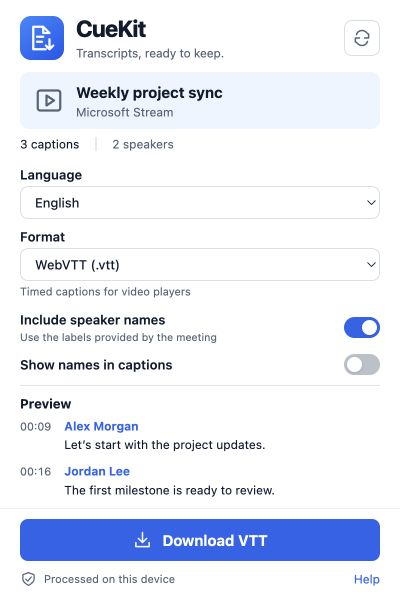
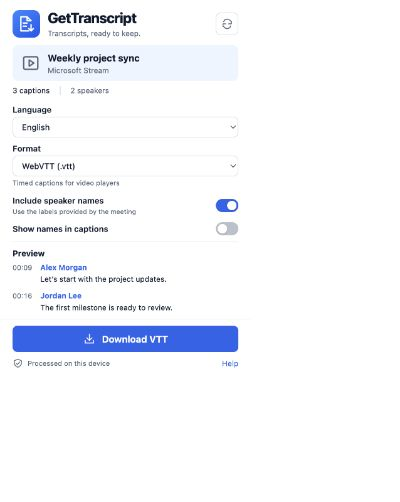
Name the extension GetTranscript and prepare public release

diff --git a/public/help.html b/public/help.html
@@ -3,16 +3,18 @@
   <head>
     <meta charset="utf-8" />
     <meta name="viewport" content="width=device-width,initial-scale=1" />
-    <title>CueKit Help</title>
+    <title>GetTranscript Help</title>
     <link rel="stylesheet" href="help.css" />
   </head>
   <body>
     <main>
-      <h1>CueKit</h1>
+      <h1>GetTranscript</h1>
       <p class="lead">Keep the transcript. Keep the speaker names.</p>
       <h2>Export in three steps</h2>
       <ol>
-        <li>Open a video page and select CueKit in your browser toolbar.</li>
+        <li>
+          Open a video page and select GetTranscript in your browser toolbar.
+        </li>
         <li>
           Choose a language and format. Available speaker labels are matched
           automatically.
@@ -54,16 +56,16 @@
         supported.
       </p>
       <p>
-        If no captions appear, enable them in the player and refresh CueKit.
-        Open embedded videos on their original page. CueKit does not transcribe
-        audio or infer who is speaking.
+        If no captions appear, enable them in the player and refresh
+        GetTranscript. Open embedded videos on their original page.
+        GetTranscript does not transcribe audio or infer who is speaking.
       </p>
       <h2>Speaker names</h2>
       <p>
         Names come from existing caption tags or the meeting’s transcript
-        labels. CueKit matches complete utterance text and timestamps. It leaves
-        unmatched captions unnamed. It does not correct the original service’s
-        attribution errors.
+        labels. GetTranscript matches complete utterance text and timestamps. It
+        leaves unmatched captions unnamed. It does not correct the original
+        service’s attribution errors.
       </p>
       <h2>Your privacy</h2>
       <p>
@@ -73,7 +75,7 @@
         account registration or AI services.
       </p>
       <p>
-        Temporary active-tab access is granted when you open CueKit. The
+        Temporary active-tab access is granted when you open GetTranscript. The
         extension may load caption resources referenced by that page, briefly
         reveal captions or scroll the transcript, and then restore those
         controls. Existing sign-in, server permissions and content availability
@@ -86,7 +88,22 @@
         <strong>storage:</strong> remember export preferences. No persistent
         website access, cookie access, browsing history or debugger permission.
       </p>
-      <p class="version">CueKit 1.0.0 · Local processing</p>
+      <p>
+        <a
+          href="https://github.com/RobinMJD/GetTranscript/issues"
+          target="_blank"
+          rel="noopener noreferrer"
+          >Support</a
+        >
+        ·
+        <a
+          href="https://github.com/RobinMJD/GetTranscript/blob/main/PRIVACY.md"
+          target="_blank"
+          rel="noopener noreferrer"
+          >Privacy policy</a
+        >
+      </p>
+      <p class="version">GetTranscript 1.0.0 · Local processing</p>
     </main>
   </body>
 </html>

diff --git a/tests/browser/extension.spec.ts b/tests/browser/extension.spec.ts
@@ -23,7 +23,7 @@ const fixtureUrl =
 const html = `<!doctype html><html><head><title>Weekly project sync</title></head><body><video controls><track default kind="subtitles" label="English" srclang="en" src="/captions.vtt"></video></body></html>`;
 
 test.beforeAll(async () => {
-  folder = await mkdtemp(path.join(tmpdir(), "cuekit-browser-"));
+  folder = await mkdtemp(path.join(tmpdir(), "gettranscript-browser-"));
   const ext = path.join(folder, "extension");
   await cp("dist", ext, { recursive: true });
   const { publicKey } = generateKeyPairSync("rsa", { modulusLength: 2048 });
@@ -87,7 +87,7 @@ test.beforeAll(async () => {
     entryPoints: ["src/extractor/collect.ts"],
     bundle: true,
     format: "iife",
-    globalName: "CueKitExtractor",
+    globalName: "GetTranscriptExtractor",
     write: false,
     target: "chrome120",
   });
@@ -215,7 +215,7 @@ test("virtualized Stream transcript yields complete speaker rows and restores sc
   });
   const result = await video.evaluate(async (code) => {
     return await (0, eval)(
-      `(()=>{${code};return CueKitExtractor.collectPage({speakers:true,prepare:false});})()`,
+      `(()=>{${code};return GetTranscriptExtractor.collectPage({speakers:true,prepare:false});})()`,
     );
   }, collector);
   expect(result.rows).toHaveLength(100);
@@ -318,7 +318,7 @@ test("cold Stream player loads captions and restores the caption menu", async ()
   const result = await video.evaluate(
     async (code) =>
       await (0, eval)(
-        `(()=>{${code};return CueKitExtractor.collectPage({speakers:false,prepare:true});})()`,
+        `(()=>{${code};return GetTranscriptExtractor.collectPage({speakers:false,prepare:true});})()`,
       ),
     collector,
   );

diff --git a/scripts/store-preview.html b/scripts/store-preview.html
@@ -2,7 +2,7 @@
 <html lang="en">
   <head>
     <meta charset="utf-8" />
-    <title>CueKit — Store artwork</title>
+    <title>GetTranscript — Store artwork</title>
     <style>
       * {
         box-sizing: border-box;
@@ -78,7 +78,9 @@
   <body>
     <main>
       <article>
-        <div class="brand"><img src="/icons/icon128.png" alt="" />CueKit</div>
+        <div class="brand">
+          <img src="/icons/icon128.png" alt="" />GetTranscript
+        </div>
         <h1>Keep the transcript.<br />Keep the speaker names.</h1>
         <p>
           Export available captions from Microsoft Stream and supported video
@@ -91,7 +93,7 @@
       </article>
       <iframe
         src="/?demo"
-        title="CueKit export popup with fictional meeting content"
+        title="GetTranscript export popup with fictional meeting content"
       ></iframe>
     </main>
   </body>

diff --git a/src/popup/App.tsx b/src/popup/App.tsx
@@ -131,7 +131,7 @@ export function App() {
           <Icon name="file" size={30} />
         </div>
         <div className="brand">
-          <h1>CueKit</h1>
+          <h1>GetTranscript</h1>
           <p>Transcripts, ready to keep.</p>
         </div>
         <button
@@ -183,7 +183,9 @@ export function App() {
               <section className="empty">
                 <Icon name="file" size={34} />
                 <h2>No captions found yet</h2>
-                <p>Turn captions on in the video, then refresh CueKit.</p>
+                <p>
+                  Turn captions on in the video, then refresh GetTranscript.
+                </p>
                 <p className="subtle">
                   Embedded video? Open its original page first.
                 </p>

diff --git a/index.html b/index.html
@@ -1,2 +1,12 @@
 <!doctype html>
-<html lang="en"><head><meta charset="UTF-8"><meta name="viewport" content="width=device-width,initial-scale=1"><title>CueKit — Transcript Exporter</title></head><body><div id="root"></div><script type="module" src="/src/popup/main.tsx"></script></body></html>
+<html lang="en">
+  <head>
+    <meta charset="UTF-8" />
+    <meta name="viewport" content="width=device-width,initial-scale=1" />
+    <title>GetTranscript — Video Transcript Exporter</title>
+  </head>
+  <body>
+    <div id="root"></div>
+    <script type="module" src="/src/popup/main.tsx"></script>
+  </body>
+</html>

diff --git a/src/extractor/collect.ts b/src/extractor/collect.ts
@@ -307,7 +307,7 @@ export async function collectPage(options: {
   }
   if (!tracks.length)
     warnings.push(
-      "No readable captions found. Turn captions on in the player, then refresh CueKit. For an embedded video, open its original page.",
+      "No readable captions found. Turn captions on in the player, then refresh GetTranscript. For an embedded video, open its original page.",
     );
   return {
     title,

diff --git a/README.md b/README.md
@@ -1,12 +1,12 @@
-# CueKit
+# GetTranscript
 
 **Keep the transcript. Keep the speaker names.**
 
-CueKit turns the captions already available on a video page into a file you can keep, edit, search or reuse. Open the extension, choose your format, and download.
+GetTranscript turns the captions already available on a video page into a file you can keep, edit, search or reuse. Open the extension, choose your format, and download.
 
 Current version: **v1.0.0** · Chrome and Microsoft Edge · Manifest V3
 
-![CueKit export popup](docs/images/popup.png)
+![GetTranscript export popup](docs/images/popup.png)
 
 ## A useful transcript in one place
 
@@ -19,23 +19,23 @@ Current version: **v1.0.0** · Chrome and Microsoft Edge · Manifest V3
 
 ## Install locally
 
-Store listings have not been published yet. Do not install a similarly named extension assuming it is this project.
+Download the package from [GitHub Releases](https://github.com/RobinMJD/GetTranscript/releases). Chrome and Edge Store listings are being prepared.
 
-1. Extract `cuekit-v1.0.0-chromium-stores.zip` into a permanent folder.
+1. Extract `gettranscript-v1.0.0-chromium-stores.zip` into a permanent folder.
 2. Open `chrome://extensions` or `edge://extensions` and enable **Developer mode**.
 3. Select **Load unpacked** and choose that extracted folder. Its root contains `manifest.json`.
-4. Pin CueKit to the toolbar.
+4. Pin GetTranscript to the toolbar.
 
 For source builds, load `dist/` after running the commands below.
 
 ## Use it
 
-1. Open the original video page and select CueKit in the toolbar.
+1. Open the original video page and select GetTranscript in the toolbar.
 2. Keep the popup open while it reads the captions and matches speaker names.
 3. Choose the language, format and speaker options.
 4. Select **Download**. The file is saved through your browser’s download manager.
 
-If no captions are found, turn captions on in the player and refresh CueKit. For a video embedded from another origin, open the video’s original page.
+If no captions are found, turn captions on in the player and refresh GetTranscript. For a video embedded from another origin, open the video’s original page.
 
 | Format   | Best for                                     | Speaker names                                |
 | -------- | -------------------------------------------- | -------------------------------------------- |
@@ -51,7 +51,7 @@ If no captions are found, turn captions on in the player and refresh CueKit. For
 
 **Other HTML5 video and audio players:** readable WebVTT resources or native text tracks. Same-origin frames are inspected. Cross-origin embedded players should be opened separately. Proprietary players, closed shadow roots and sites that do not expose captions are not covered.
 
-CueKit does not transcribe audio, identify voices, translate text or correct the meeting service’s speaker assignments. Names are added only after a unique text-and-time match. Unmatched captions remain unnamed and partial coverage is reported. A live player may expose only a rolling window of captions rather than the complete event.
+GetTranscript does not transcribe audio, identify voices, translate text or correct the meeting service’s speaker assignments. Names are added only after a unique text-and-time match. Unmatched captions remain unnamed and partial coverage is reported. A live player may expose only a rolling window of captions rather than the complete event.
 
 ## Local processing
 
@@ -87,7 +87,7 @@ One deterministic Chromium ZIP is used unchanged for GitHub Releases, Chrome Web
 
 The release workflow requires an exact `vX.Y.Z` tag on `main`, verifies the version, runs unit and loaded-browser tests, audits dependencies and packages once. Publication jobs consume that verified artifact. Store jobs remain disabled until their listing identities and protected environment credentials have been configured. Manual reruns can select GitHub, Chrome or Edge independently.
 
-See [Publishing](docs/PUBLISHING.md), [Store listing](docs/STORE_LISTING.md) and [Architecture](docs/ARCHITECTURE.md). GitHub Releases should be the canonical published changelog once the repository is created. No Store links or installation badges are shown until their actual listings exist.
+See [Publishing](docs/PUBLISHING.md), [Store listing](docs/STORE_LISTING.md) and [Architecture](docs/ARCHITECTURE.md). [GitHub Releases](https://github.com/RobinMJD/GetTranscript/releases) is the canonical published changelog. No Store links or installation badges are shown until their actual listings exist.
 
 ## Project layout
 

diff --git a/PRIVACY.md b/PRIVACY.md
@@ -1,22 +1,22 @@
-# CueKit privacy policy
+# GetTranscript privacy policy
 
 Effective September 19, 2026. Version 1.0.0.
 
-CueKit runs locally in your browser. It has no developer-operated service, analytics, advertising or account system. The developer does not receive your transcripts.
+GetTranscript runs locally in your browser. It has no developer-operated service, analytics, advertising or account system. The developer does not receive your transcripts.
 
 ## What the extension accesses
 
-When you open CueKit, temporary active-tab access permits it to inspect the current video page, its readable caption tracks and its transcript panel. This may include the page title, caption language, spoken text, timestamps and existing speaker labels. Same-origin embedded documents may be inspected as part of that page.
+When you open GetTranscript, temporary active-tab access permits it to inspect the current video page, its readable caption tracks and its transcript panel. This may include the page title, caption language, spoken text, timestamps and existing speaker labels. Same-origin embedded documents may be inspected as part of that page.
 
-Referenced caption resources may be fetched directly from their existing host. Same-origin requests use the browser’s existing authentication; cross-origin requests do not include credentials. CueKit does not collect, store or export authentication cookies or tokens, and it does not create a separate Microsoft application.
+Referenced caption resources may be fetched directly from their existing host. Same-origin requests use the browser’s existing authentication; cross-origin requests do not include credentials. GetTranscript does not collect, store or export authentication cookies or tokens, and it does not create a separate Microsoft application.
 
 ## Storage and sharing
 
 Transcript content stays in the popup’s memory during use. Closing the popup discards that extension-side copy. Selecting Download saves the chosen text file through the browser download manager. Downloaded files and browser download history remain under your control.
 
-Only export format and the two speaker display preferences are stored in `chrome.storage.local`. They are not synchronized by CueKit. There is no transcript history database.
+Only export format and the two speaker display preferences are stored in `chrome.storage.local`. They are not synchronized by GetTranscript. There is no transcript history database.
 
-CueKit does not send your content to an AI provider, the developer or another cloud processing service. It does not sell data.
+GetTranscript does not send your content to an AI provider, the developer or another cloud processing service. It does not sell data.
 
 ## Controls and deletion
 
@@ -31,6 +31,6 @@ You choose when to open the extension and when to download. Delete downloaded fi
 
 No persistent host permissions, cookie permission, browsing-history permission or debugger permission are requested.
 
-## Support
+## Support and privacy contact
 
-For a Store release, use the verified support contact in its official listing or the project’s GitHub issue tracker. Do not attach private transcripts or authentication material to a public issue. Store publication must include a verified support destination before it is submitted.
+For questions, use the [project support page](https://github.com/RobinMJD/GetTranscript/issues). Do not include transcript content, credentials or private meeting links in a public issue. Report sensitive security concerns through [private vulnerability reporting](https://github.com/RobinMJD/GetTranscript/security/advisories/new).

diff --git a/docs/STORE_LISTING.md b/docs/STORE_LISTING.md
@@ -1,6 +1,6 @@
 # Store listing source
 
-Name: **CueKit — Transcript Exporter**
+Name: **GetTranscript — Video Transcript Exporter**
 
 Short description:
 
@@ -10,15 +10,15 @@ Short description:
 
 Keep the conversation in a format you can use.
 
-CueKit exports captions already available on a video page. Open the extension, select a language and format, and download. Choose WebVTT for caption tools, SRT for video editors, plain text or Markdown for notes, and JSON for structured processing.
+GetTranscript exports captions already available on a video page. Open the extension, select a language and format, and download. Choose WebVTT for caption tools, SRT for video editors, plain text or Markdown for notes, and JSON for structured processing.
 
-On supported Microsoft Stream pages, CueKit matches the meeting’s speaker labels to the captions using their text and timestamps. It preserves existing VTT voice tags on other supported players. Unmatched captions remain unnamed.
+On supported Microsoft Stream pages, GetTranscript matches the meeting’s speaker labels to the captions using their text and timestamps. It preserves existing VTT voice tags on other supported players. Unmatched captions remain unnamed.
 
 Everything is processed locally. There is no developer server, analytics, account registration or AI processing. Only your export preferences are stored. The extension requests temporary access to the tab you select, rather than permanent access to every website.
 
-Requirements: a readable caption track in a supported HTML5 player, or a standard Microsoft Stream recording page hosted on SharePoint. The Stream speaker adapter supports English and French transcript timestamp labels. For embedded videos, open the original player page. For pages without captions, CueKit cannot generate a transcript from audio. Live caption sources may expose only a rolling window.
+Requirements: a readable caption track in a supported HTML5 player, or a standard Microsoft Stream recording page hosted on SharePoint. The Stream speaker adapter supports English and French transcript timestamp labels. For embedded videos, open the original player page. For pages without captions, GetTranscript cannot generate a transcript from audio. Live caption sources may expose only a rolling window.
 
-CueKit is independent of Microsoft and Google. Export only content you are authorized to keep.
+GetTranscript is independent of Microsoft and Google. Export only content you are authorized to keep.
 
 ## Permission justifications
 
@@ -36,3 +36,11 @@ Data use: page title, captions and speaker names are processed locally for the e
 ## First-listing requirements
 
 Before public submission, set the verified developer/support contact and public privacy-policy URL, create new Chrome and Edge product listings, review their declarations, upload the shared package, and use screenshots containing only fictional meeting content. Add actual Store links and official badges to the README after the listings exist. Do not reuse another extension’s product ID.
+
+## Public links
+
+- Homepage: https://github.com/RobinMJD/GetTranscript
+- Support: https://github.com/RobinMJD/GetTranscript/issues
+- Privacy policy: https://github.com/RobinMJD/GetTranscript/blob/main/PRIVACY.md
+- Screenshot: `docs/images/store-1280x800.png` (fictional meeting content)
+- Logo: `public/icons/icon128.png`

diff --git a/docs/PUBLISHING.md b/docs/PUBLISHING.md
@@ -1,17 +1,17 @@
-# Publishing CueKit
+# Publishing GetTranscript
 
 The release structure follows QuickPIM++ and UseMyCurrentAccount++: one browser-neutral ZIP, an exact version tag, validation before publication, independently retryable publishers, and separate reporting of submission and public availability.
 
 ## First publication
 
-1. Approve the CueKit name, public repository destination, listing copy, screenshots, privacy policy and support contact.
+1. Approve the GetTranscript name, public repository destination, listing copy, screenshots, privacy policy and support contact.
 2. Create the public repository and enable private vulnerability reporting.
 3. Create **new** Chrome and Edge listings. Record publisher/product identifiers only in an ignored `PUBLISHING_RUNBOOK.local.md` and protected GitHub environment secrets.
 4. Publish a stable public privacy-policy URL and verify it resolves before completing the Store forms.
 5. Configure `chrome-web-store` and `edge-addons` GitHub environments with review gates as appropriate. Keep Store publishers disabled until their new identities are verified.
 6. Set repository variables `CHROME_PUBLISH_ENABLED=true` and `EDGE_PUBLISH_ENABLED=true` only when those listings are ready.
 
-Never copy the other extensions’ Store IDs into CueKit. Existing personal developer credentials may be reusable only through their authorized publisher accounts, but no credentials are copied into source or ZIP files.
+Never copy the other extensions’ Store IDs into GetTranscript. Existing personal developer credentials may be reusable only through their authorized publisher accounts, but no credentials are copied into source or ZIP files.
 
 ## Every release
 

diff --git a/SECURITY.md b/SECURITY.md
@@ -1,6 +1,6 @@
 # Security model
 
-CueKit reads content exposed to the signed-in page. It does not change server-side permissions, disable controls, intercept credentials, invoke a remote transcription service or decrypt protected network traffic. Export only material you are authorized to retain.
+GetTranscript reads content exposed to the signed-in page. It does not change server-side permissions, disable controls, intercept credentials, invoke a remote transcription service or decrypt protected network traffic. Export only material you are authorized to retain.
 
 The page is an untrusted input boundary. The collector runs in MAIN world to read native text tracks and page-created caption blobs; it receives no privileged extension objects or secrets. Its result is parsed and validated before display or download. React renders labels as text, caption markup is decoded as text, output formats escape their own syntax, and filenames discard path separators, control characters, reserved device names and bidirectional control marks.
 
@@ -12,4 +12,4 @@ Tests use intercepted fictional pages and a separate temporary browser profile. 
 
 ## Reporting
 
-Use the repository’s private vulnerability reporting facility once enabled. Until a public repository exists, report directly to the project maintainer. Do not put credentials, private transcripts or exploit-bearing private URLs into a public issue.
+Report security issues through [GitHub private vulnerability reporting](https://github.com/RobinMJD/GetTranscript/security/advisories/new). Do not put credentials, private transcripts or private meeting URLs into a public issue.

diff --git a/TERMS.md b/TERMS.md
@@ -1,7 +1,7 @@
 # Terms of use
 
-CueKit is provided under the MIT license, without warranties. Use it only with content that you are authorized to access and retain. You are responsible for meeting applicable organizational, contractual and legal requirements for exported material.
+GetTranscript is provided under the MIT license, without warranties. Use it only with content that you are authorized to access and retain. You are responsible for meeting applicable organizational, contractual and legal requirements for exported material.
 
-CueKit preserves source text and available speaker labels. Automatic transcription or attribution can be inaccurate. Verify important information against the original recording.
+GetTranscript preserves source text and available speaker labels. Automatic transcription or attribution can be inaccurate. Verify important information against the original recording.
 
-CueKit is an independent project and is not affiliated with, endorsed by or sponsored by Microsoft or Google. Microsoft Stream, SharePoint, Teams, Chrome and Edge are trademarks of their respective owners.
+GetTranscript is an independent project and is not affiliated with, endorsed by or sponsored by Microsoft or Google. Microsoft Stream, SharePoint, Teams, Chrome and Edge are trademarks of their respective owners.
